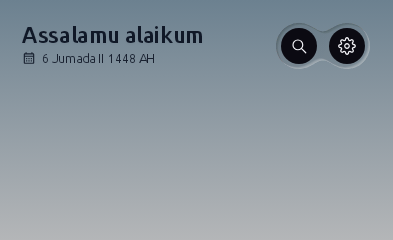
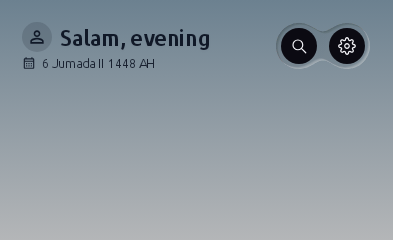
Open Family sign-in and chats from the Home profile

Changed region(s): [[0.0611, 0.0875, 0.5496, 0.2917]]

diff --git a/shared/src/commonMain/kotlin/com/starception/submission/shared/ui/PrayerTimesScreen.kt b/shared/src/commonMain/kotlin/com/starception/submission/shared/ui/PrayerTimesScreen.kt
@@ -20,6 +20,7 @@ import com.starception.submission.settings.components.GuideSection
 import com.starception.submission.settings.components.appGuideAnchor
 import com.starception.submission.feature.prayertimes.homeNavigationReveal
 import com.starception.submission.feature.prayertimes.homeHeaderLocation
+import com.starception.submission.feature.prayertimes.HomeProfileAvatar
 import com.starception.submission.feature.prayertimes.HomeHeaderDetail
 import com.starception.submission.feature.prayertimes.HomeHeaderDetailKind
 import com.starception.submission.feature.prayertimes.HomeHeaderTypography
@@ -255,6 +256,8 @@ fun PrayerTimesScreen(
     onInsightImmersiveChange: (Boolean) -> Unit = {},
     homeCountryName: String = "",
     homeCountryCode: String = "",
+    onOpenFamilyAccount: (() -> Unit)? = null,
+    familyAccount: () -> String? = { null },
 ) {
     val prayerContentHeights = remember(LocalDensity.current.fontScale) { mutableStateMapOf<String, Dp>() }
     var showAllPrayers by remember { mutableStateOf(initialShowAllPrayers) }
@@ -753,6 +756,8 @@ fun PrayerTimesScreen(
                             }
                             if (showProfileSheet) {
                                 HomeProfileSheet(
+                                    familyAccount = familyAccount(),
+                                    onOpenFamily = onOpenFamilyAccount?.let { open -> { showProfileSheet = false; open() } },
                                     onOpenProfile = {
                                         showProfileSheet = false
                                         onOpenProfile()
@@ -1315,13 +1320,17 @@ private fun PrayerHomeHeader(
     if (onArtwork) {
         Row(Modifier.fillMaxWidth().heightIn(min = 56.dp), verticalAlignment = Alignment.CenterVertically,
             horizontalArrangement = Arrangement.spacedBy(12.dp)) {
-            Column(Modifier.weight(1f), verticalArrangement = Arrangement.spacedBy(5.dp)) {
+            Column(Modifier.weight(1f).clickable(onClickLabel = "Open profile", onClick = onShowProfile), verticalArrangement = Arrangement.spacedBy(5.dp)) {
                 val ink = if (lightHeaderInk) Color.White else Color(0xFF101827)
                 val headerShadow = androidx.compose.ui.graphics.Shadow(
                     color = Color.Black.copy(alpha = if (lightHeaderInk) .18f else .03f),
                     offset = androidx.compose.ui.geometry.Offset(0f, .5f), blurRadius = 2f,
                 )
-                Text(greeting, style = HomeHeaderTypography.greeting.copy(shadow = headerShadow), color = ink, maxLines = 1)
+                Row(verticalAlignment = Alignment.CenterVertically, horizontalArrangement = Arrangement.spacedBy(8.dp)) {
+                    HomeProfileAvatar(ink)
+                    Text(greeting, style = HomeHeaderTypography.greeting.copy(shadow = headerShadow),
+                    color = ink, maxLines = 1, overflow = TextOverflow.Ellipsis)
+                }
                 HomeRotatingHeaderText(supportingTexts, style = HomeHeaderTypography.detail.copy(shadow = headerShadow), color = ink.copy(alpha = .86f))
             }
             AppHeaderActions(onDarkArtwork = lightHeaderInk, onSearchClick = onOpenSearch, onSettingsClick = onOpenSettings, guideHomeActions = true)
@@ -1905,6 +1914,8 @@ private fun SuggestionRow(
 @OptIn(androidx.compose.material3.ExperimentalMaterial3Api::class)
 @Composable
 private fun HomeProfileSheet(
+    familyAccount: String?,
+    onOpenFamily: (() -> Unit)?,
     onOpenProfile: () -> Unit,
     onSelectSaved: () -> Unit,
     onOpenSettings: () -> Unit,
@@ -1944,6 +1955,10 @@ private fun HomeProfileSheet(
                 fontWeight = FontWeight.Bold,
             )
             Spacer(Modifier.height(20.dp))
+            onOpenFamily?.let {
+                com.starception.submission.feature.prayertimes.FamilyProfileEntry(familyAccount, it)
+                Spacer(Modifier.height(10.dp))
+            }
             Row(horizontalArrangement = Arrangement.spacedBy(10.dp)) {
                 androidx.compose.material3.FilledTonalButton(
                     onClick = onSelectSaved,

diff --git a/core/components/src/commonMain/kotlin/com/starception/submission/feature/prayertimes/HomeHeaderDetails.kt b/core/components/src/commonMain/kotlin/com/starception/submission/feature/prayertimes/HomeHeaderDetails.kt
@@ -6,12 +6,18 @@ import androidx.compose.animation.core.LinearOutSlowInEasing
 import androidx.compose.animation.core.tween
 import androidx.compose.material3.Text
 import androidx.compose.material3.Icon
+import androidx.compose.material3.IconButton
+import androidx.compose.foundation.background
+import androidx.compose.foundation.border
+import androidx.compose.foundation.layout.Box
 import androidx.compose.foundation.layout.Row
+import androidx.compose.foundation.shape.CircleShape
 import androidx.compose.foundation.layout.Arrangement
 import androidx.compose.foundation.layout.fillMaxWidth
 import androidx.compose.foundation.layout.size
 import androidx.compose.ui.Alignment
 import androidx.compose.material.icons.Icons
+import androidx.compose.material.icons.outlined.PersonOutline
 import androidx.compose.material.icons.outlined.CalendarMonth
 import androidx.compose.material.icons.outlined.LocationOn
 import androidx.compose.material.icons.outlined.Cloud
@@ -144,5 +150,21 @@ fun HomeRotatingHeaderText(
             overflow = TextOverflow.Ellipsis,
             modifier = Modifier.weight(1f),
         )
+    }
+}
+
+@Composable
+fun HomeProfileAvatar(tint: Color) {
+    Box(Modifier.size(30.dp).background(tint.copy(alpha = .16f), CircleShape), contentAlignment = Alignment.Center) {
+        Icon(Icons.Outlined.PersonOutline, null, tint = tint, modifier = Modifier.size(20.dp))
+    }
+}
+
+@Composable
+fun FamilyProfileEntry(account: String?, onClick: () -> Unit) {
+    androidx.compose.material3.OutlinedButton(onClick = onClick, modifier = Modifier.fillMaxWidth()) {
+        Text(account?.takeIf { it.isNotBlank() }?.substringBefore('@') ?: "Family account",
+            modifier = Modifier.weight(1f), maxLines = 1, overflow = TextOverflow.Ellipsis)
+        Text(if (account == null) "Sign in" else "Open chats")
     }
 }

diff --git a/shared/src/iosMain/kotlin/com/starception/submission/shared/ui/IosComposeRoot.kt b/shared/src/iosMain/kotlin/com/starception/submission/shared/ui/IosComposeRoot.kt
@@ -444,6 +444,7 @@ fun PrayerTimesTabViewController(
     salahTfliteService: com.starception.submission.shared.ml.SalahTfliteService? = null,
     salah3DService: Salah3DSceneService? = null,
     startBottomIndex: Int,
+    familyAccount: () -> String?,
     onSelectBottom: (Int) -> Unit,
 ): UIViewController = createPrayerTimesViewController(
     sherpaService = sherpaService,
@@ -451,6 +452,7 @@ fun PrayerTimesTabViewController(
     salahTfliteService = salahTfliteService,
     salah3DService = salah3DService,
     startBottomIndex = startBottomIndex,
+    familyAccount = familyAccount,
     onSelectBottom = onSelectBottom,
 )
 
@@ -460,6 +462,7 @@ private fun createPrayerTimesViewController(
     salahTfliteService: com.starception.submission.shared.ml.SalahTfliteService?,
     salah3DService: Salah3DSceneService?,
     startBottomIndex: Int,
+    familyAccount: () -> String? = { null },
     onSelectBottom: ((Int) -> Unit)?,
 ): UIViewController = ComposeUIViewController {
     com.starception.submission.shared.audio.QuranReciterLibrary.platform =
@@ -1110,6 +1113,8 @@ private fun createPrayerTimesViewController(
                             notificationPrefs = settingsStore.setAdhanVolumeForPrayer(prayer, volume)
                         },
                         onOpenProfile = actions.onOpenProfile,
+                        familyAccount = familyAccount,
+                        onOpenFamilyAccount = onSelectBottom?.let { select -> { select(7) } },
                         onOpenSearch = actions.onOpenSearch,
                         searchController = actions.searchController,
                         onOpenQuran = actions.onOpenQuran,

diff --git a/app/src/main/kotlin/com/starception/submission/ui/AppTopSearchBar.kt b/app/src/main/kotlin/com/starception/submission/ui/AppTopSearchBar.kt
@@ -907,11 +907,10 @@ fun AppTopSearchBar(
                         .semantics { contentDescription = "Open profile" },
                     verticalArrangement = Arrangement.spacedBy(5.dp),
                 ) {
-                    HomeHeaderGreeting(
-                        text = homeGreetingText,
-                        color = greetingColor,
-                        onDarkArtwork = homeHeaderLightText,
-                    )
+                    Row(verticalAlignment = Alignment.CenterVertically, horizontalArrangement = Arrangement.spacedBy(8.dp)) {
+                        com.starception.submission.feature.prayertimes.HomeProfileAvatar(greetingColor)
+                        HomeHeaderGreeting(homeGreetingText, greetingColor, homeHeaderLightText)
+                    }
                     if (homeSupportingTexts.any { it.text.isNotBlank() }) {
                         HomeRotatingHeaderText(
                             texts = homeSupportingTexts,

diff --git a/app/src/testDemo/kotlin/com/starception/submission/ui/HomeHeaderDepthActionTest.kt b/app/src/testDemo/kotlin/com/starception/submission/ui/HomeHeaderDepthActionTest.kt
@@ -57,7 +57,10 @@ class HomeHeaderDepthActionTest {
                 )))) {
                     Column(Modifier.align(Alignment.TopStart).padding(22.dp).width(240.dp),
                         verticalArrangement = Arrangement.spacedBy(4.dp)) {
-                        HomeHeaderGreeting("Assalamu alaikum", Color(0xFF101827), false)
+                        androidx.compose.foundation.layout.Row(verticalAlignment = Alignment.CenterVertically, horizontalArrangement = Arrangement.spacedBy(8.dp)) {
+                            com.starception.submission.feature.prayertimes.HomeProfileAvatar(Color(0xFF101827))
+                            HomeHeaderGreeting("Salam, evening", Color(0xFF101827), false)
+                        }
                         HomeRotatingHeaderText(
                             listOf(headerDetail.value),
                             HomeHeaderTypography.detail, Color(0xFF101827).copy(alpha = .92f))

diff --git a/app/src/main/kotlin/com/starception/submission/ui/NiaApp.kt b/app/src/main/kotlin/com/starception/submission/ui/NiaApp.kt
@@ -338,6 +338,11 @@ fun NiaApp(
             if (showProfileSheet) {
                 ProfileSheet(
                     uiState = authUiState,
+                    familyAccount = familyClient?.state?.collectAsStateWithLifecycle()?.value?.takeIf { it.connected || it.reconnecting }?.me,
+                    onOpenFamily = familyClient?.let { {
+                        showProfileSheet = false
+                        appState.navigateToTopLevelDestination(TopLevelDestination.FAMILY)
+                    } },
                     onSignIn = { provider ->
                         activity?.let { authViewModel.signIn(it, provider) }
                         showProfileSheet = false

diff --git a/app/src/main/kotlin/com/starception/submission/auth/ProfileSheet.kt b/app/src/main/kotlin/com/starception/submission/auth/ProfileSheet.kt
@@ -67,6 +67,8 @@ fun ProfileSheet(
     uiState: AuthUiState,
     onSignIn: (provider: String) -> Unit,
     onSignOut: () -> Unit,
+    familyAccount: String?,
+    onOpenFamily: (() -> Unit)?,
     onDismiss: () -> Unit,
 ) {
     val sheetState = rememberModalBottomSheetState()
@@ -110,6 +112,7 @@ fun ProfileSheet(
                         )
                     }
 
+                    onOpenFamily?.let { com.starception.submission.feature.prayertimes.FamilyProfileEntry(familyAccount, it) }
                     when (uiState) {
                         is AuthUiState.LoggedIn -> {
                             Text(

diff --git a/iosApp/Sources/ComposePrayerTimesView.swift b/iosApp/Sources/ComposePrayerTimesView.swift
@@ -68,6 +68,7 @@ struct ComposePrayerTimesTabView: UIViewControllerRepresentable {
                 salahTfliteService: SalahTfliteServiceImpl(),
                 salah3DService: SalahScene3DHost(),
                 startBottomIndex: Int32(tabIndex),
+                familyAccount: { FamilyStore.shared.signedIn ? FamilyStore.shared.me : nil },
                 onSelectBottom: { index in
                     onSelectTab(Int(index.int32Value))
                 }
